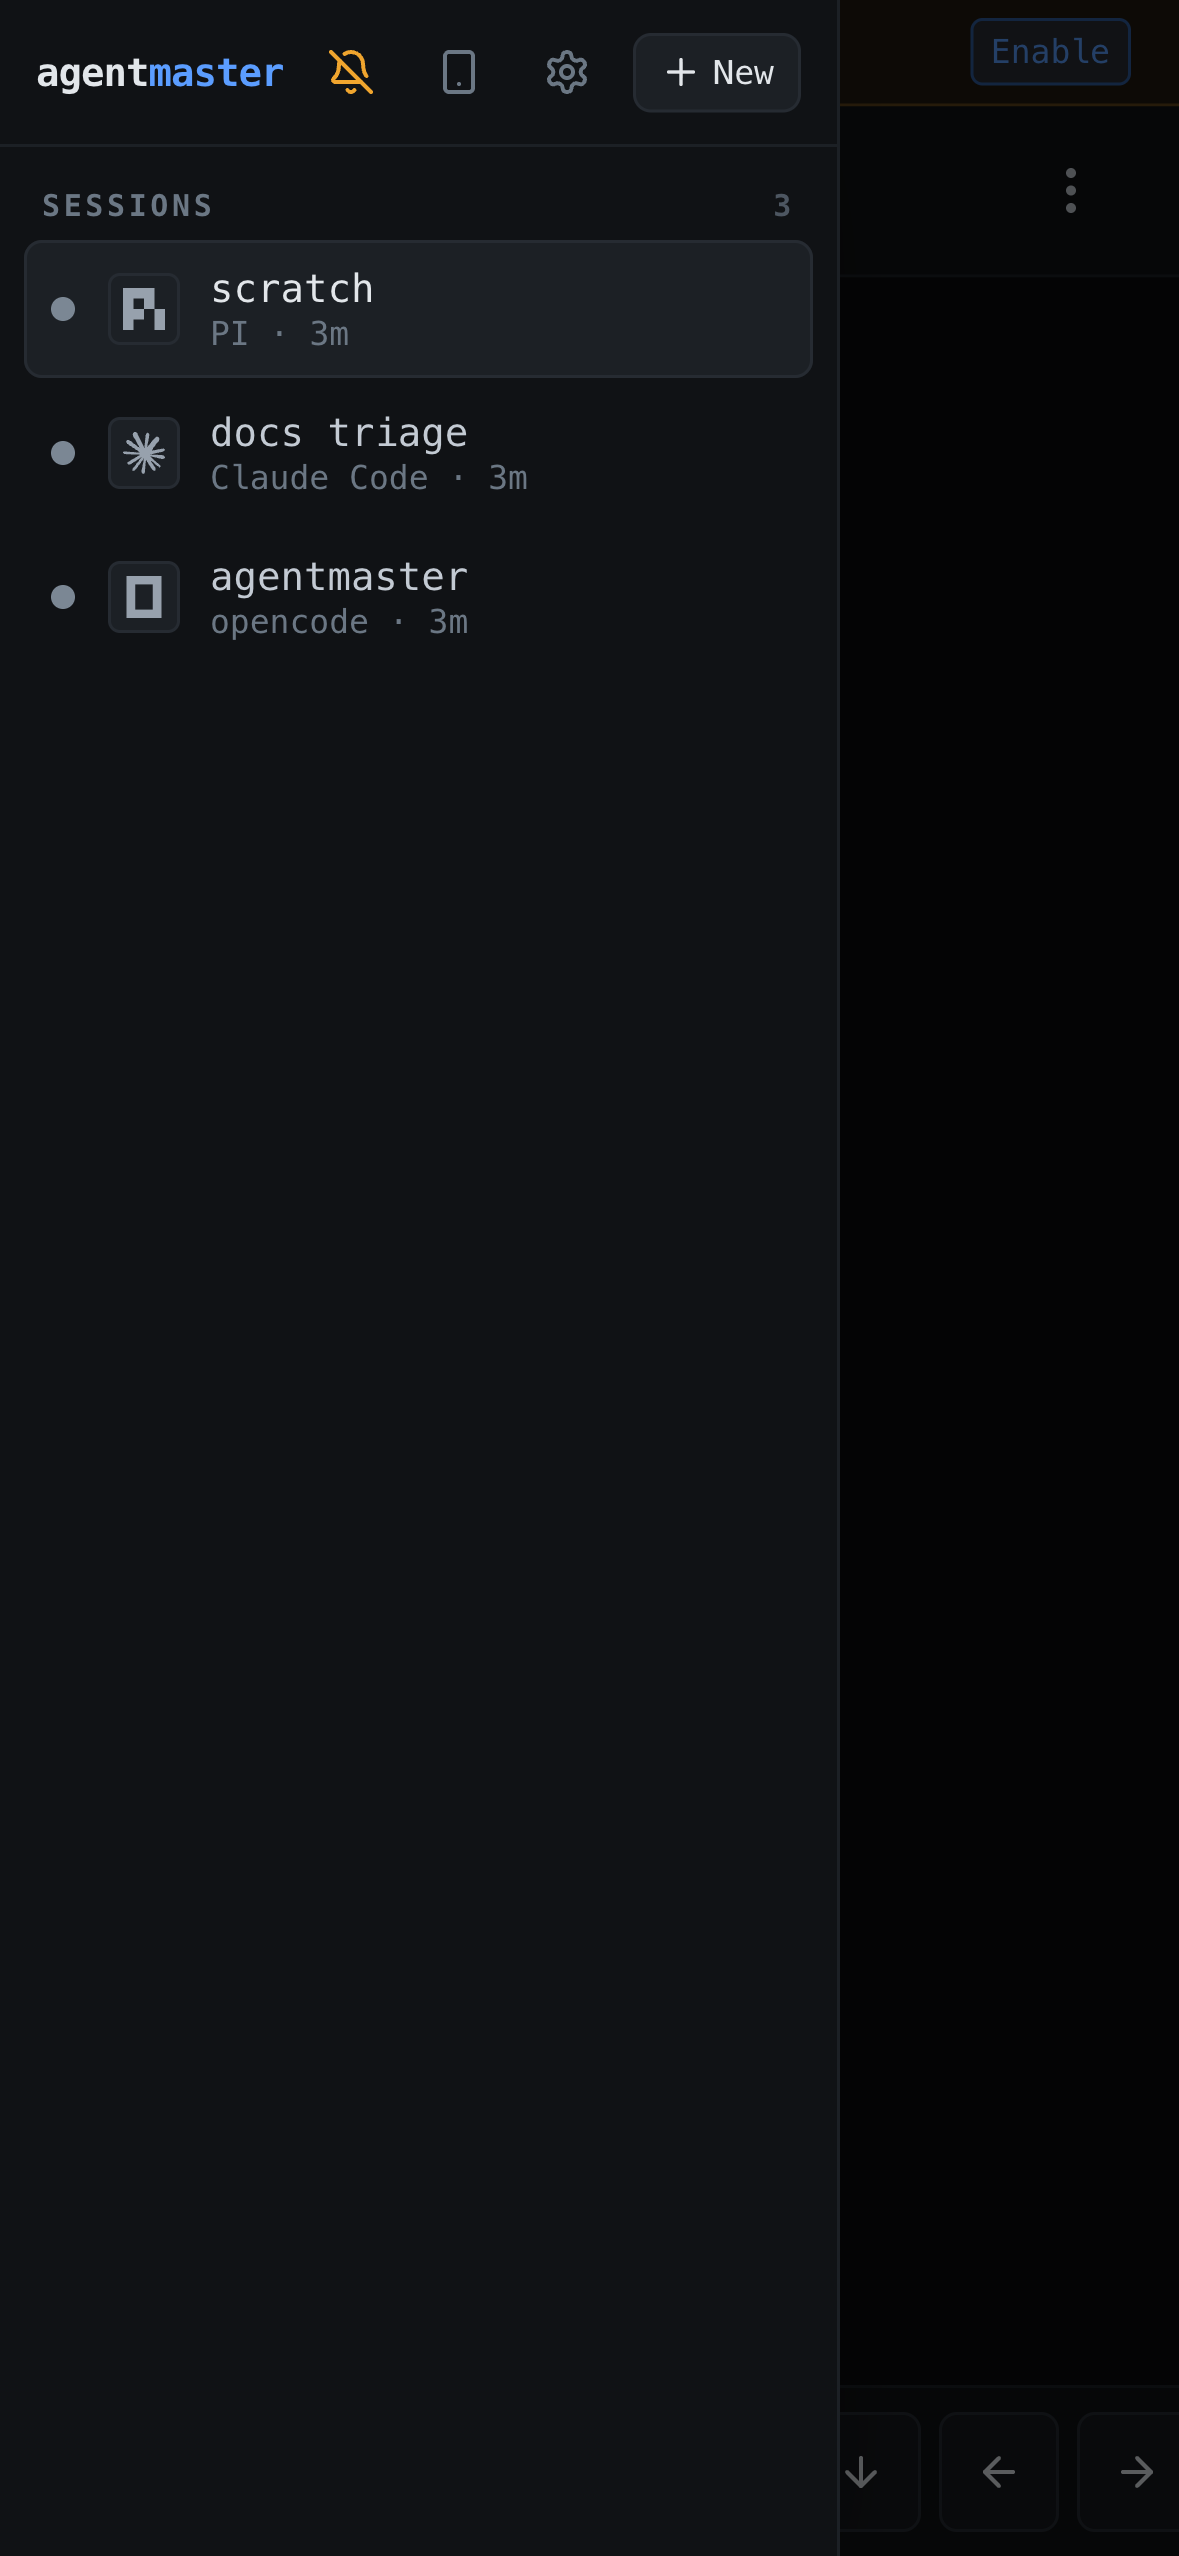
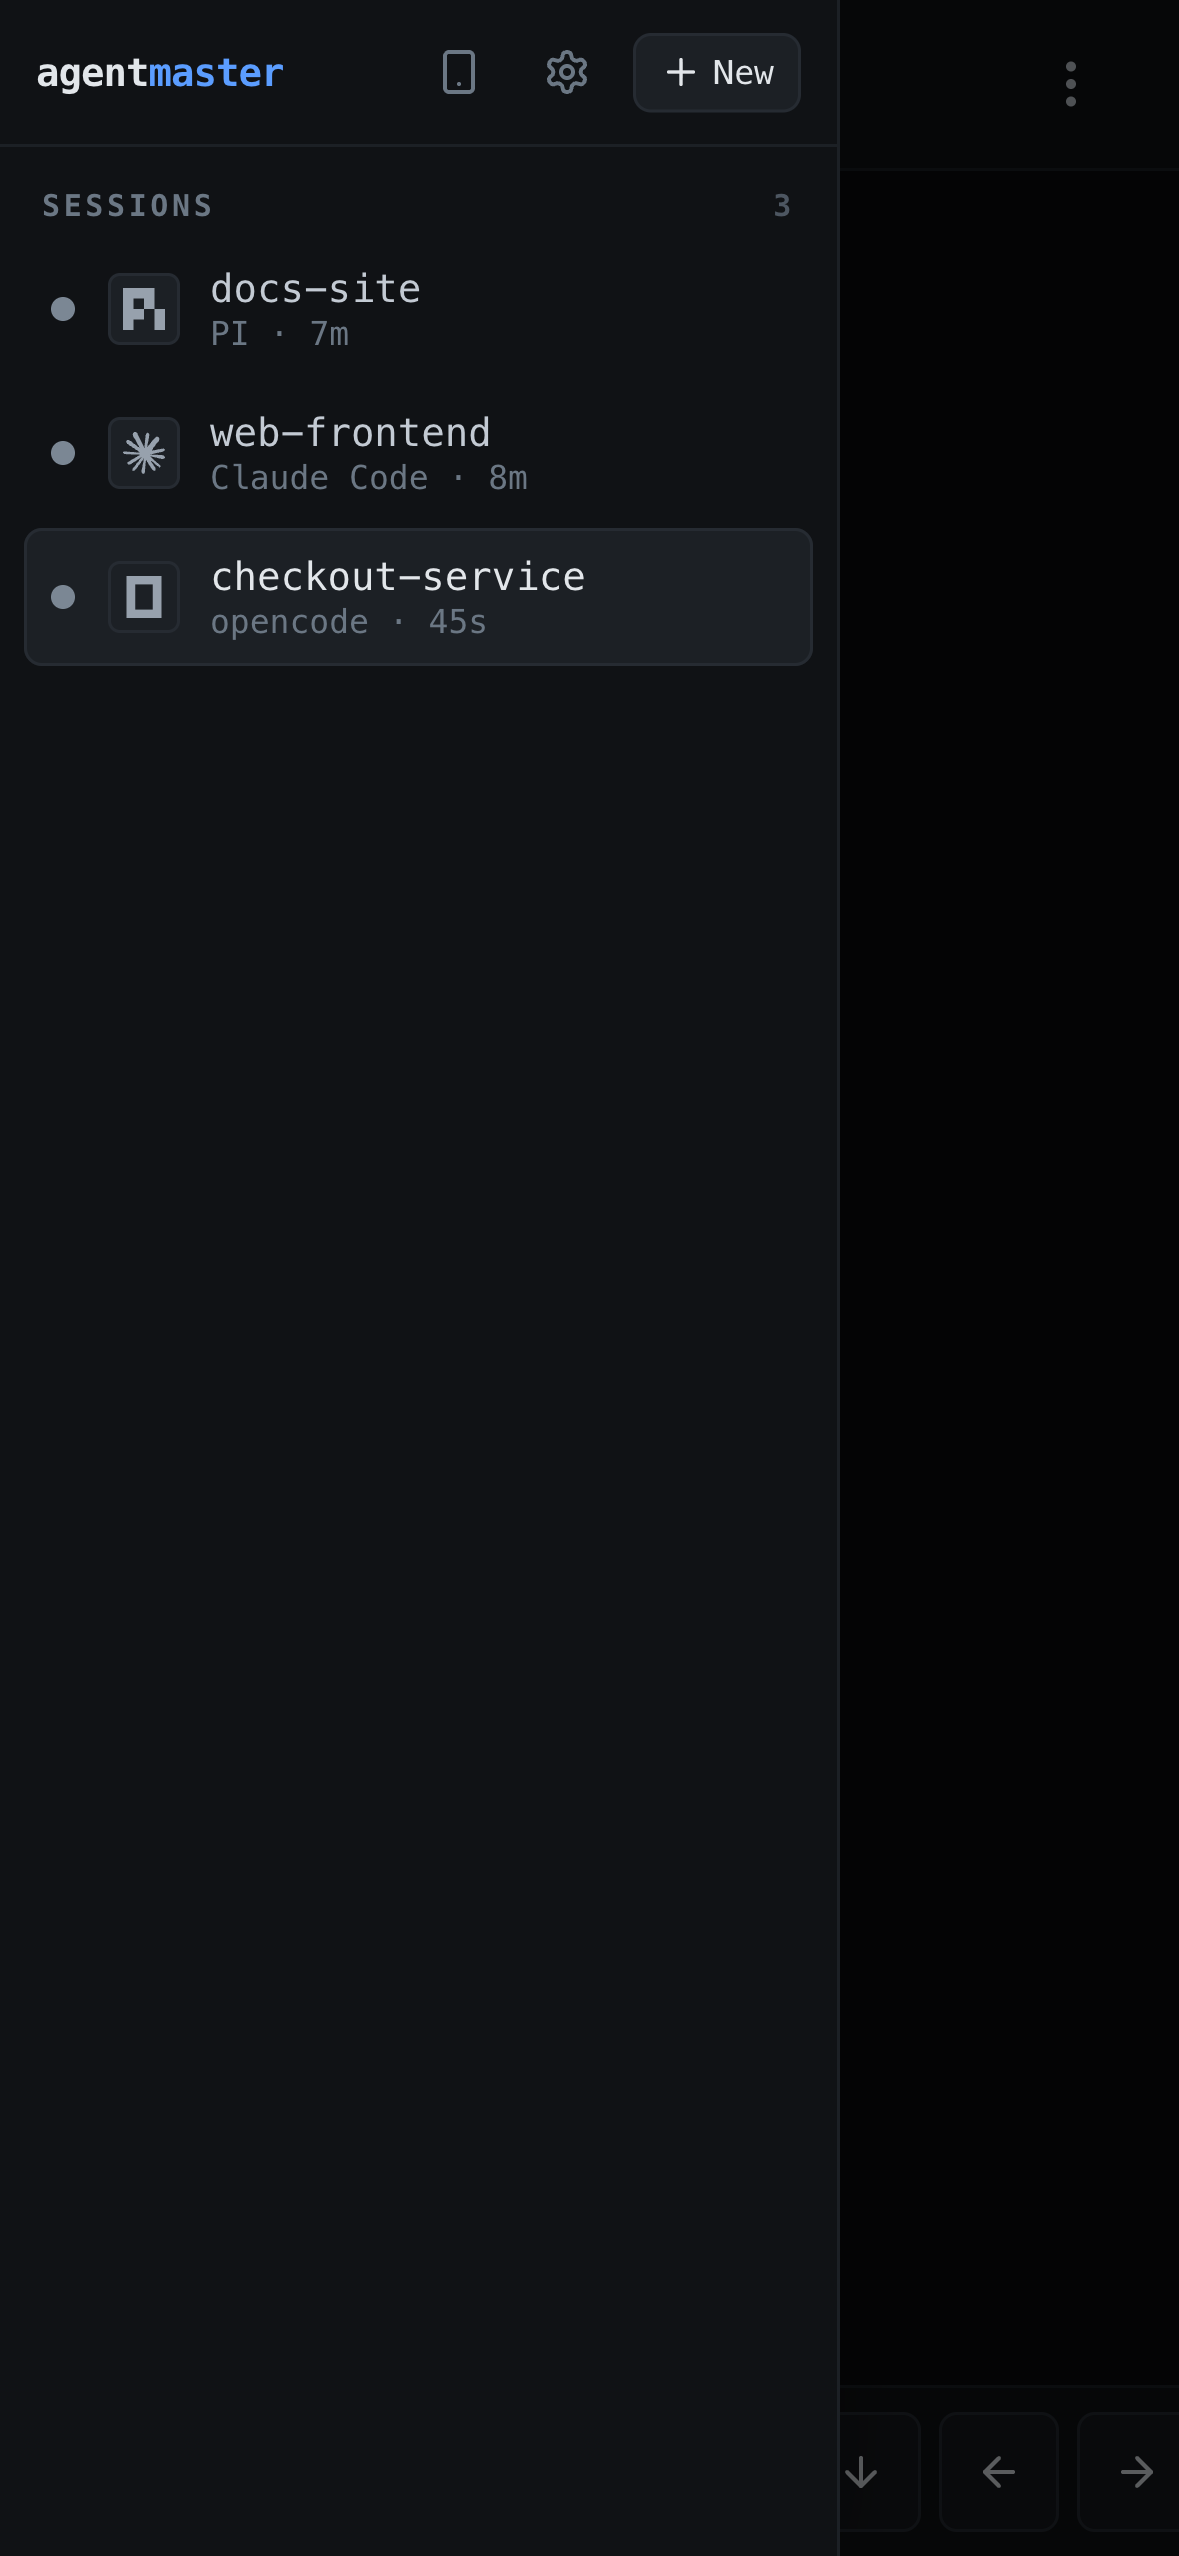
Add MIT license and retake screenshots without personal data
The repository had no license, which means all rights reserved: nobody could
legally use or fork it. Add MIT and set the package.json field to match. The
package stays private so it is never published to npm by accident — that flag
controls publishing, not visibility.

Document the licensing of the vendored brand marks in the README rather than
only in the source. The simple-icons path data is CC0, but the logos are
trademarks of their owners, so state plainly that identifying a harness is the
only use made of them and that the project is not affiliated with any of them.

The old screenshots were taken against real work: they showed the account name,
a personal directory tree including unrelated project folders, and the home path
in the new-session dialog. Retake all five against a throwaway /tmp/demo
workspace with three plausible project names, so the images show the interface
and nothing about the machine that produced them. Notification permission is
granted first, so the hero is the normal state rather than a page dominated by
the amber "notifications are off" banner.

The mobile shot deliberately keeps the default auto-scaled view instead of
"Fit to screen". Both fit the viewport, but at 48 columns opencode's own TUI
clips its banner, which reads as a bug in agentmaster that it is not.

diff --git a/README.md b/README.md
@@ -410,6 +410,21 @@ cooldown. The browser only applies your local mutes.
 **The database is history, not state.** Sessions die with the server, so any row
 left open on boot is marked exited.
 
+## License
+
+MIT — see [LICENSE](LICENSE).
+
+### Third-party assets
+
+The harness brand marks in `web/src/components/harness-marks.ts` are vendored
+from [simple-icons](https://simple-icons.org), which is licensed CC0-1.0. Six
+paths are copied rather than depended on because the package is ~50 MB installed.
+
+The logos themselves remain **trademarks of their respective owners** — Anthropic,
+Google, OpenAI, Alibaba, Cline and others — and are used here only to identify
+which tool a session is running. This project is not affiliated with, endorsed
+by, or sponsored by any of them.
+
 ## Not in v1
 
 Remote access, auth, multi-user, session persistence across restarts, cost
